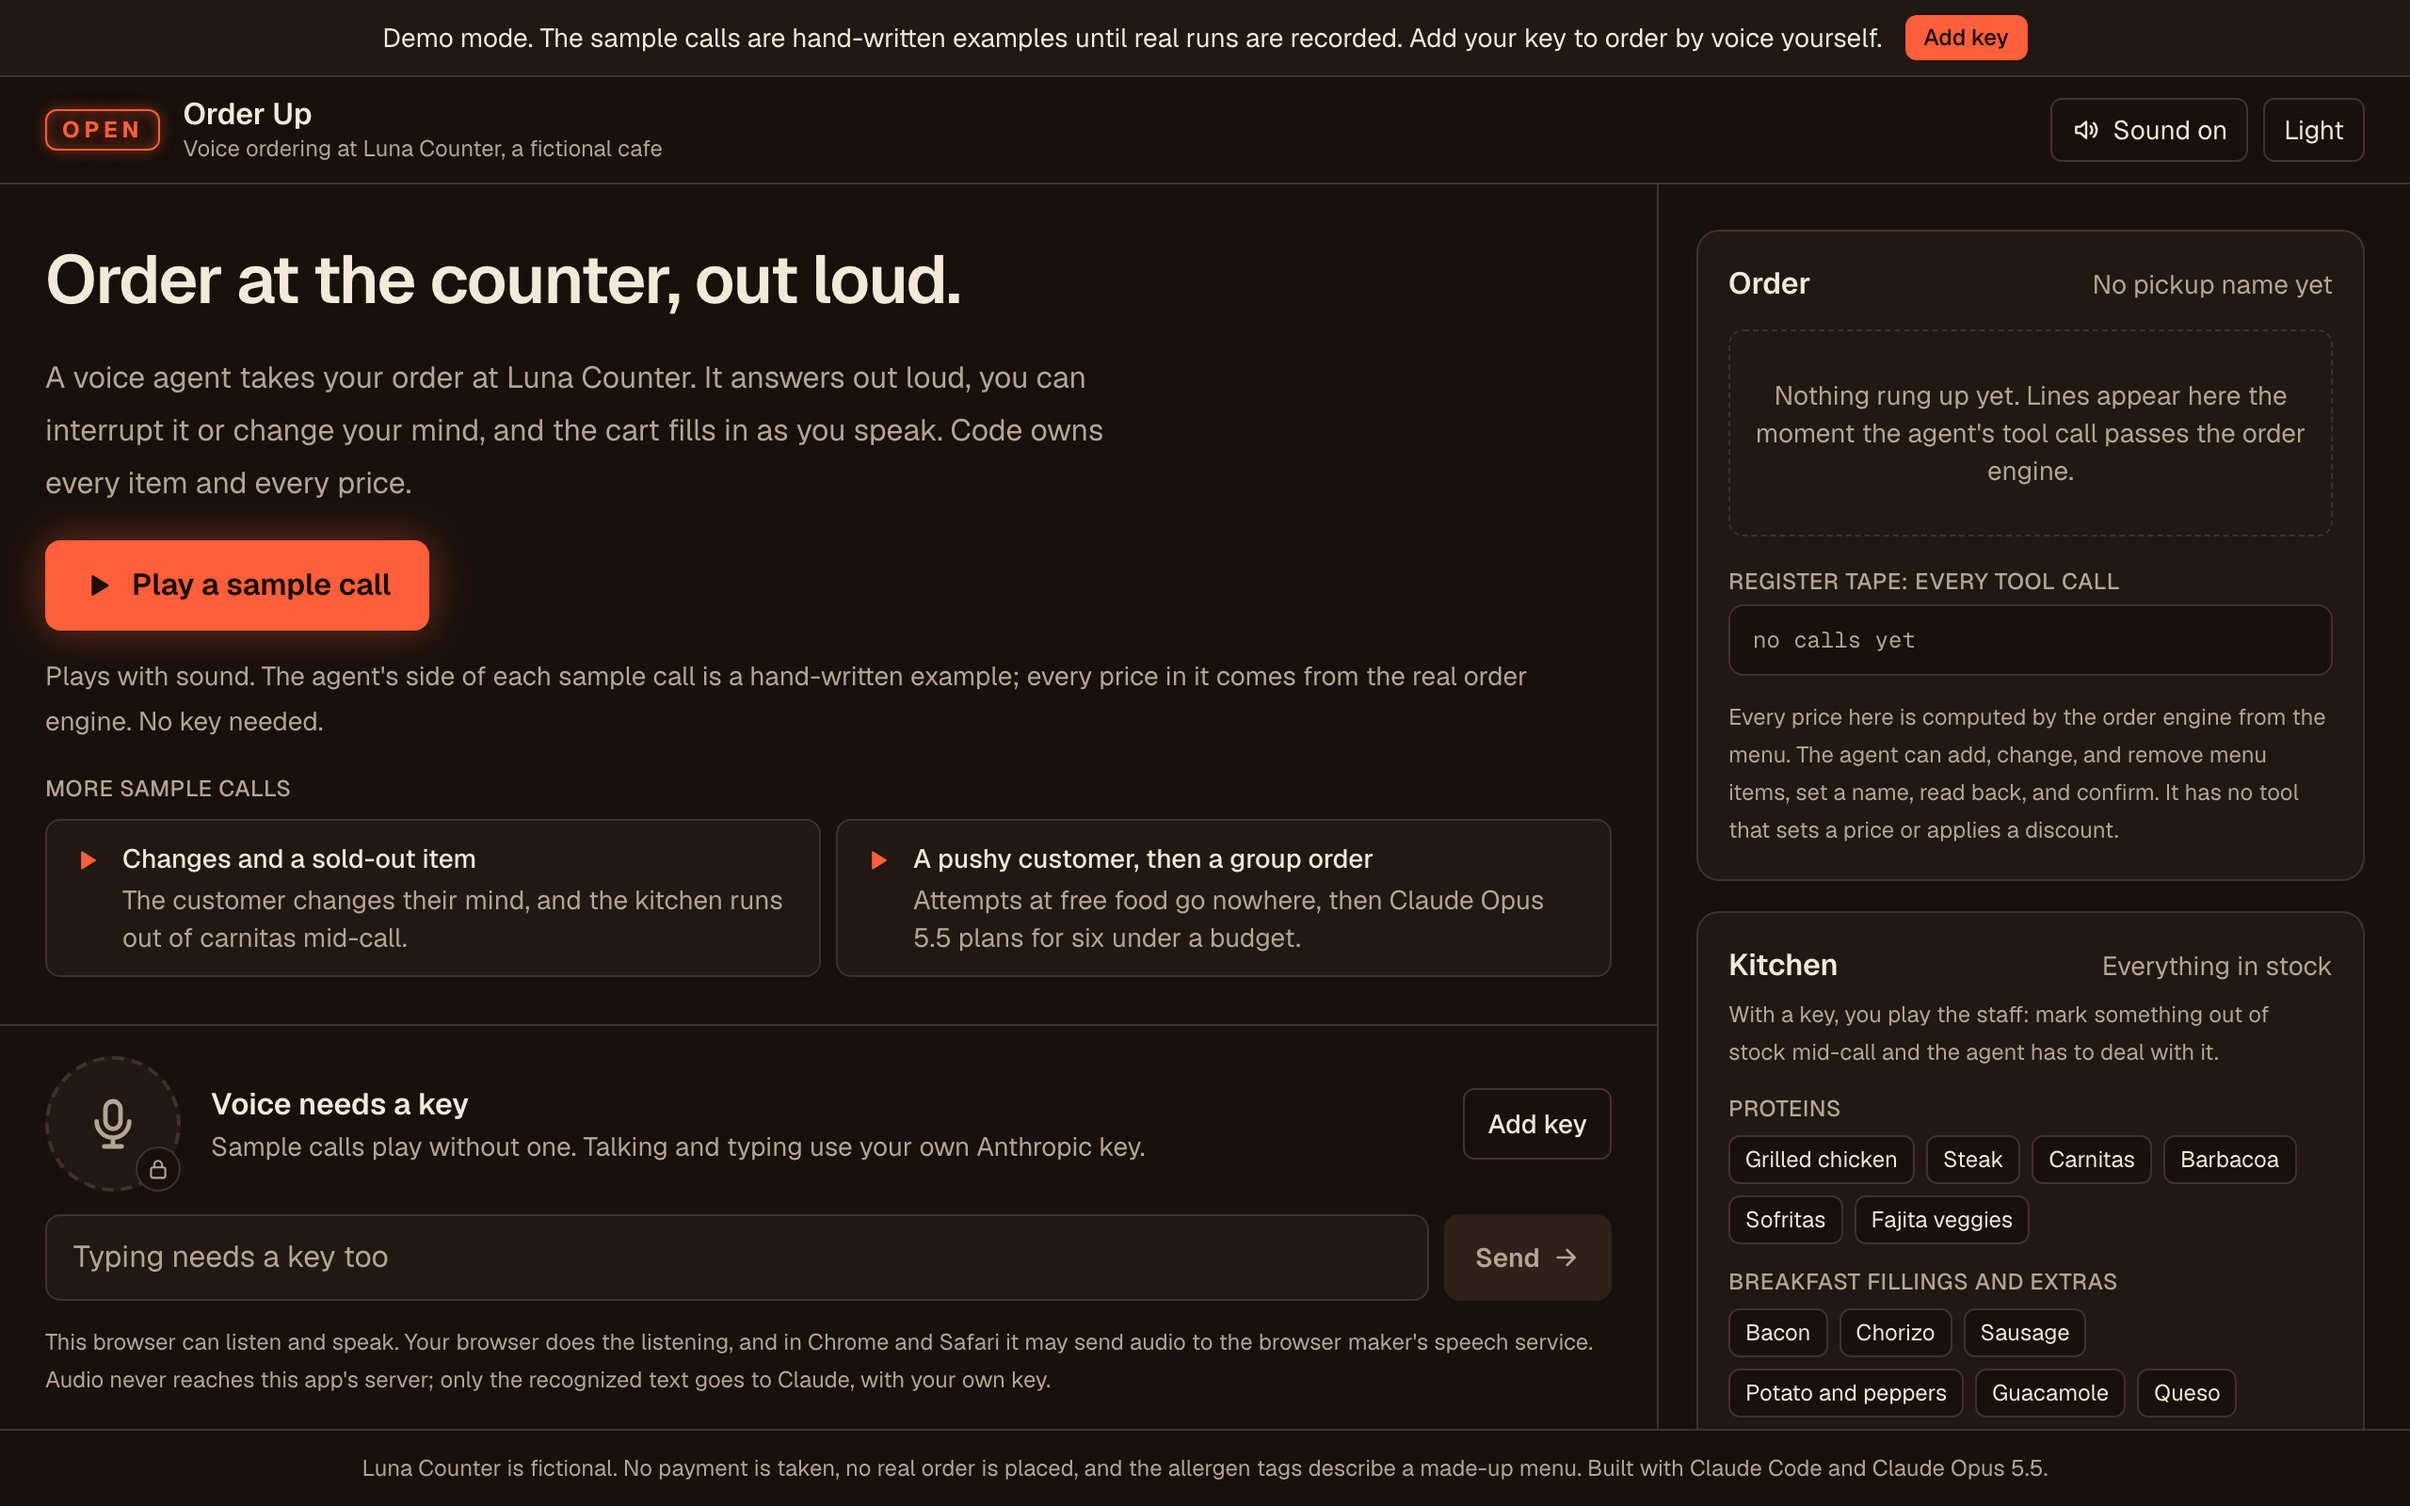
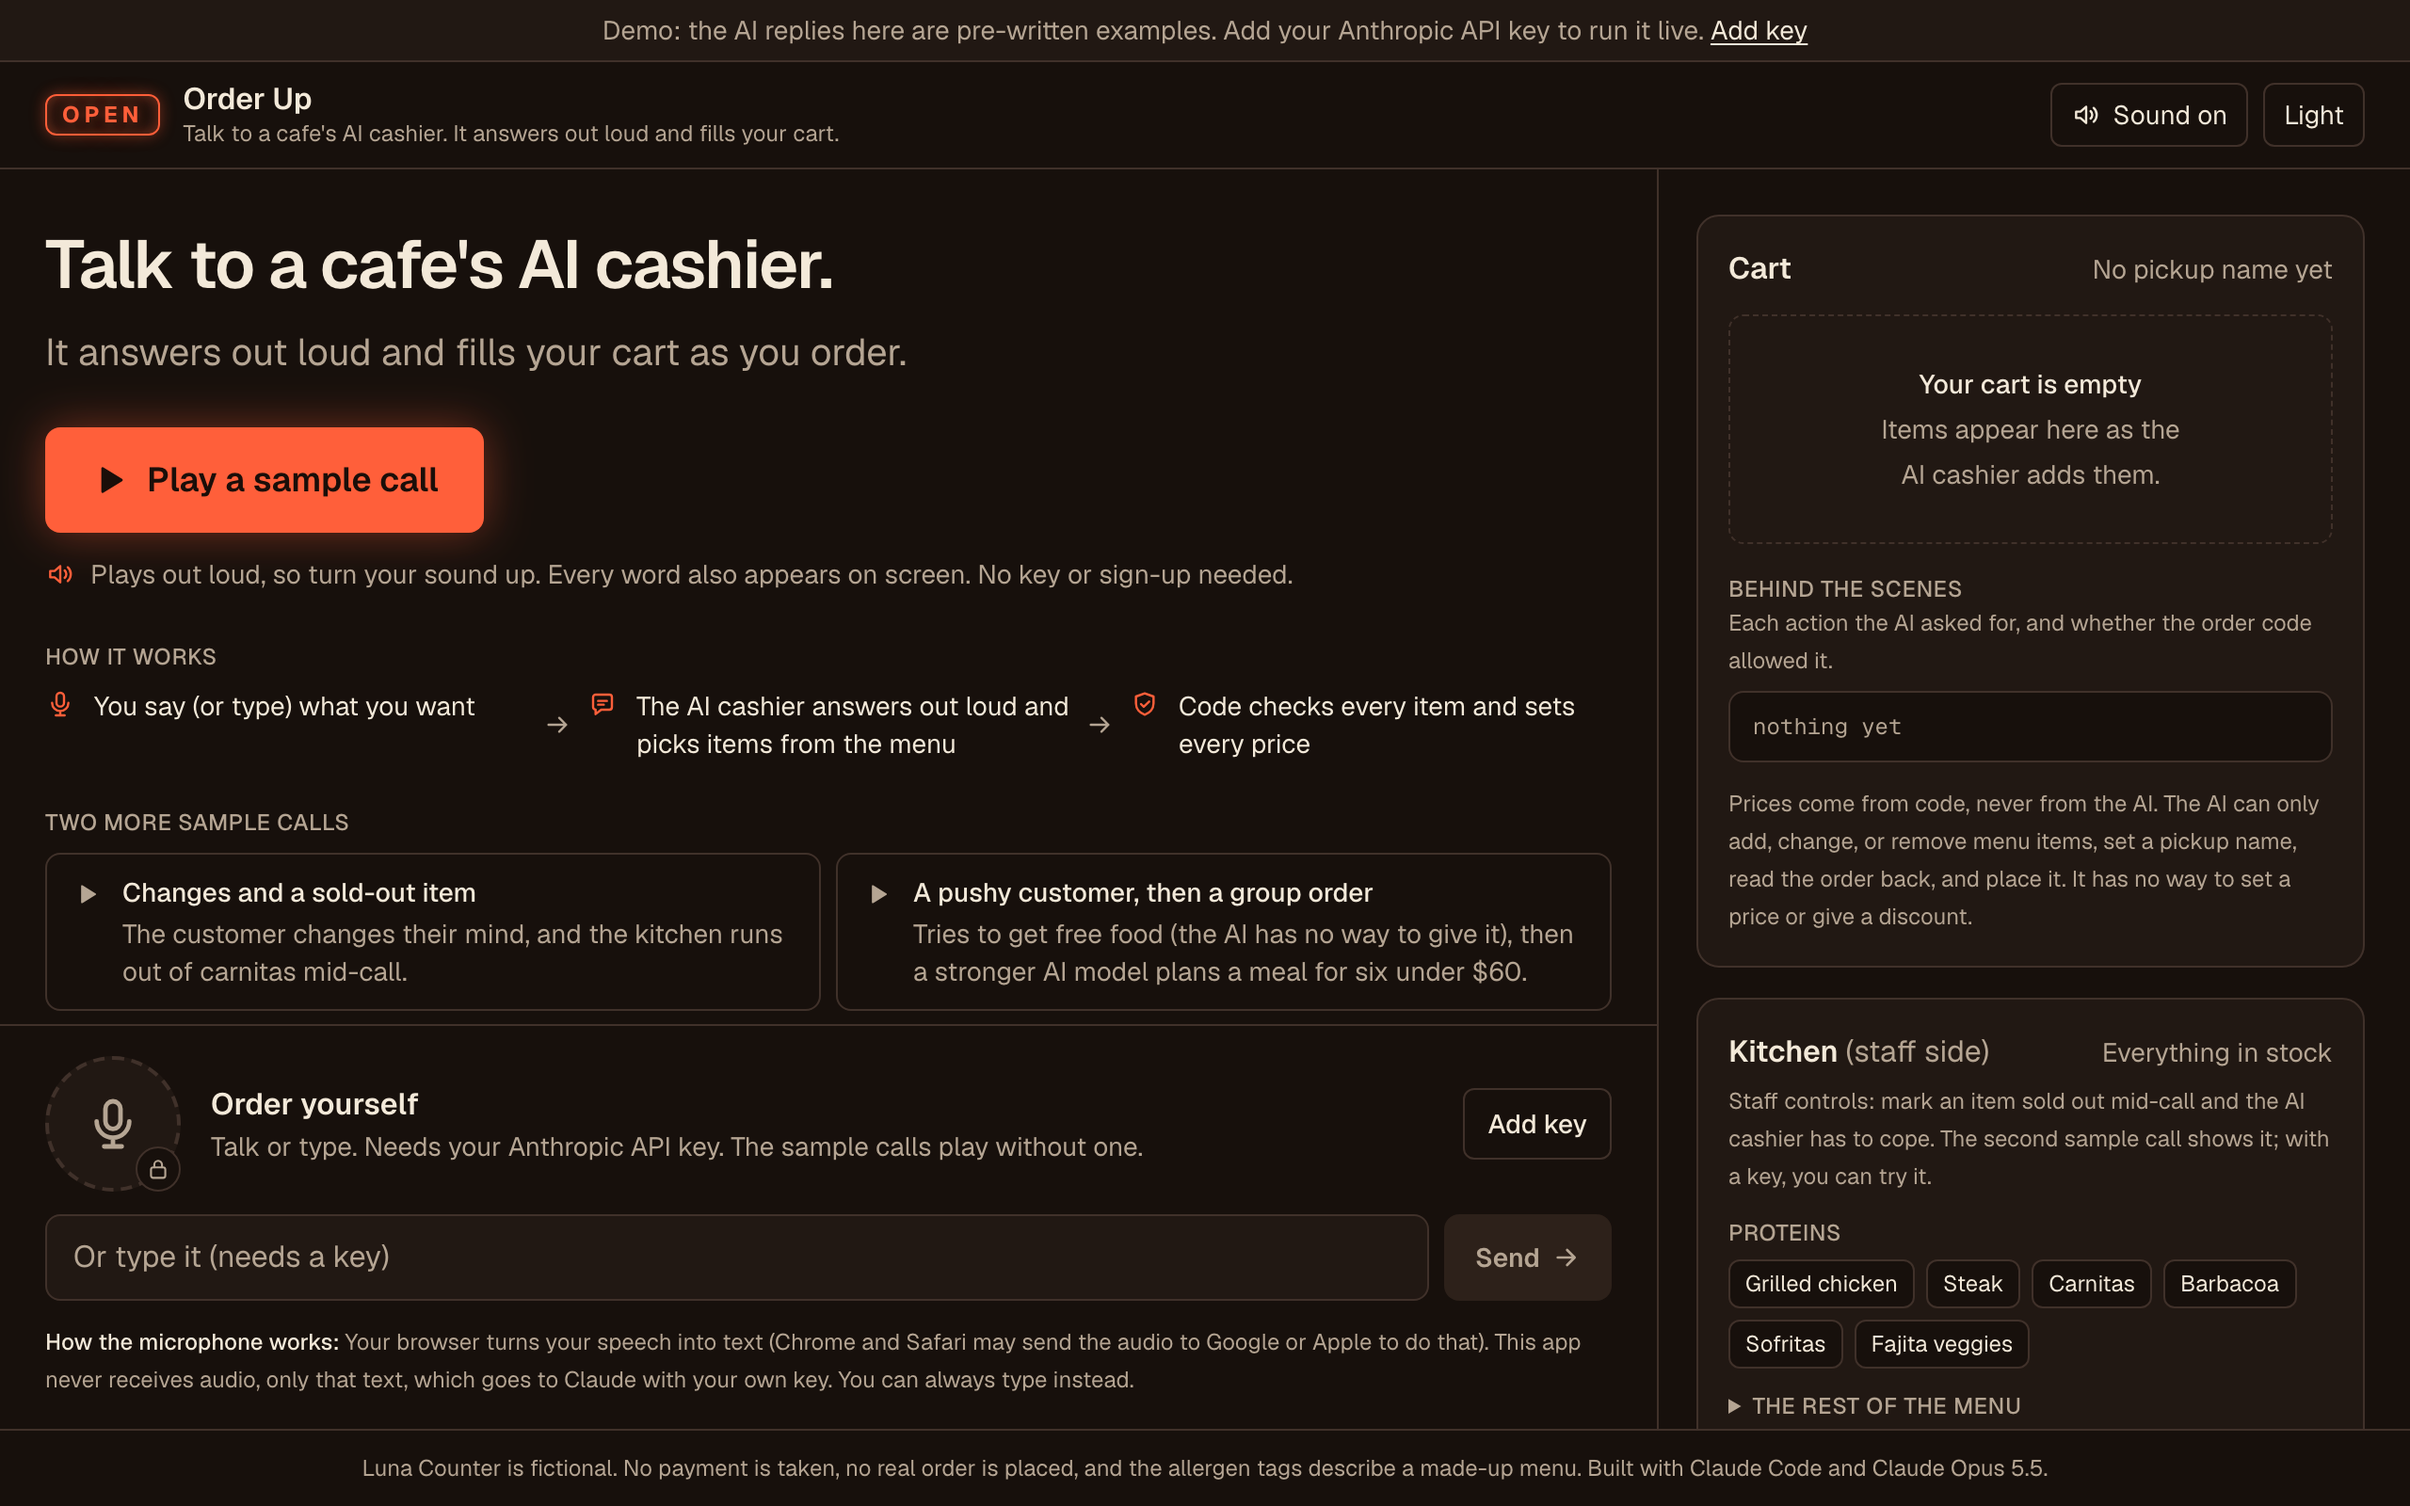
docs: retake screenshots and demo GIF with a stand-in voice
Headless Chromium has a speech API that never starts, so sample calls fell
back to captions after a 3-second wait and the shots showed sound off. A
harness-only script now paces speech like a real voice (nothing is heard).
Adds light first-screen shots; the GIF is under 3 MB.

diff --git a/scripts/fake-voice.js b/scripts/fake-voice.js
@@ -1,0 +1,54 @@
+/*
+ * Screenshot harness only, never shipped to visitors: a stand-in for the
+ * browser's voice.
+ *
+ * Headless Chromium has `speechSynthesis` but produces no sound and never
+ * fires `start`, so a sample call there falls back to timed captions after a
+ * 3-second wait. That makes screenshots show a "sound failed" state no real
+ * visitor with speakers would see. This script, injected before the page
+ * loads (see `initScripts` in screenshots.json), makes `speak()` fire `start`
+ * and then `end` after roughly the time the sentence takes to say. Nothing is
+ * heard; the UI goes through exactly the states it would with a real voice.
+ */
+(() => {
+  const synth = window.speechSynthesis;
+  if (!synth) return;
+  let current = null;
+  let timer;
+  let speaking = false;
+  Object.defineProperty(synth, "speaking", { get: () => speaking, configurable: true });
+
+  synth.speak = (utterance) => {
+    const text = utterance.text.trim();
+    if (!text) {
+      setTimeout(() => utterance.onend?.(new Event("end")), 10);
+      return;
+    }
+    current = utterance;
+    speaking = true;
+    setTimeout(() => {
+      if (current !== utterance) return;
+      utterance.onstart?.(new Event("start"));
+      // About 15 characters a second, the pace of an unhurried voice.
+      timer = setTimeout(
+        () => {
+          if (current !== utterance) return;
+          current = null;
+          speaking = false;
+          utterance.onend?.(new Event("end"));
+        },
+        Math.max(700, text.length * 62),
+      );
+    }, 80);
+  };
+
+  synth.cancel = () => {
+    const utterance = current;
+    current = null;
+    speaking = false;
+    clearTimeout(timer);
+    if (utterance) utterance.onerror?.(Object.assign(new Event("error"), { error: "canceled" }));
+  };
+  synth.resume = () => {};
+  synth.pause = () => {};
+})();
